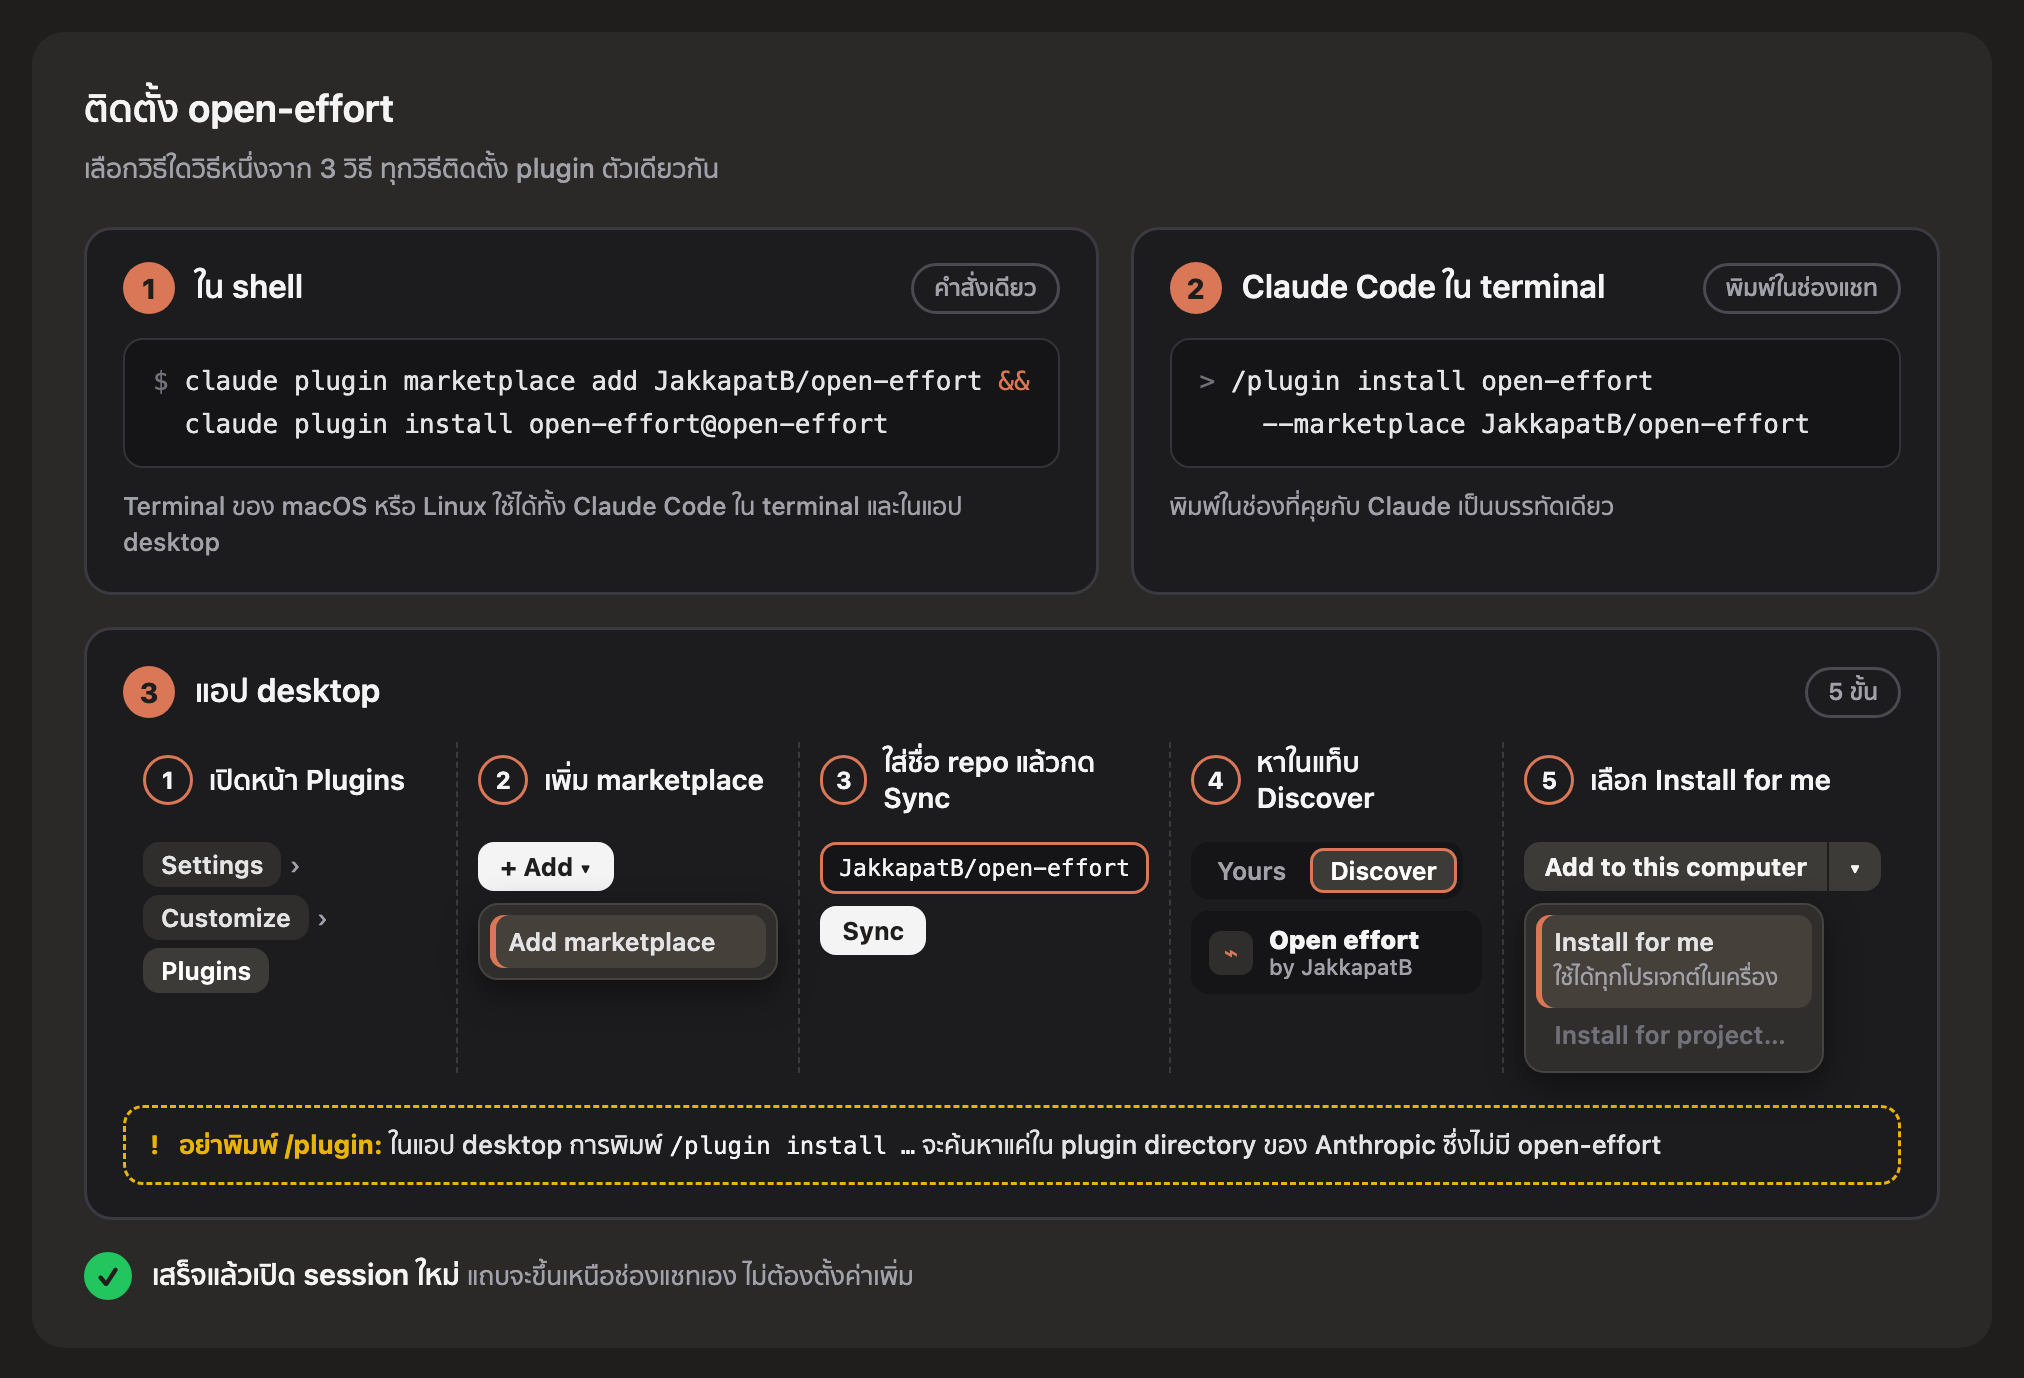
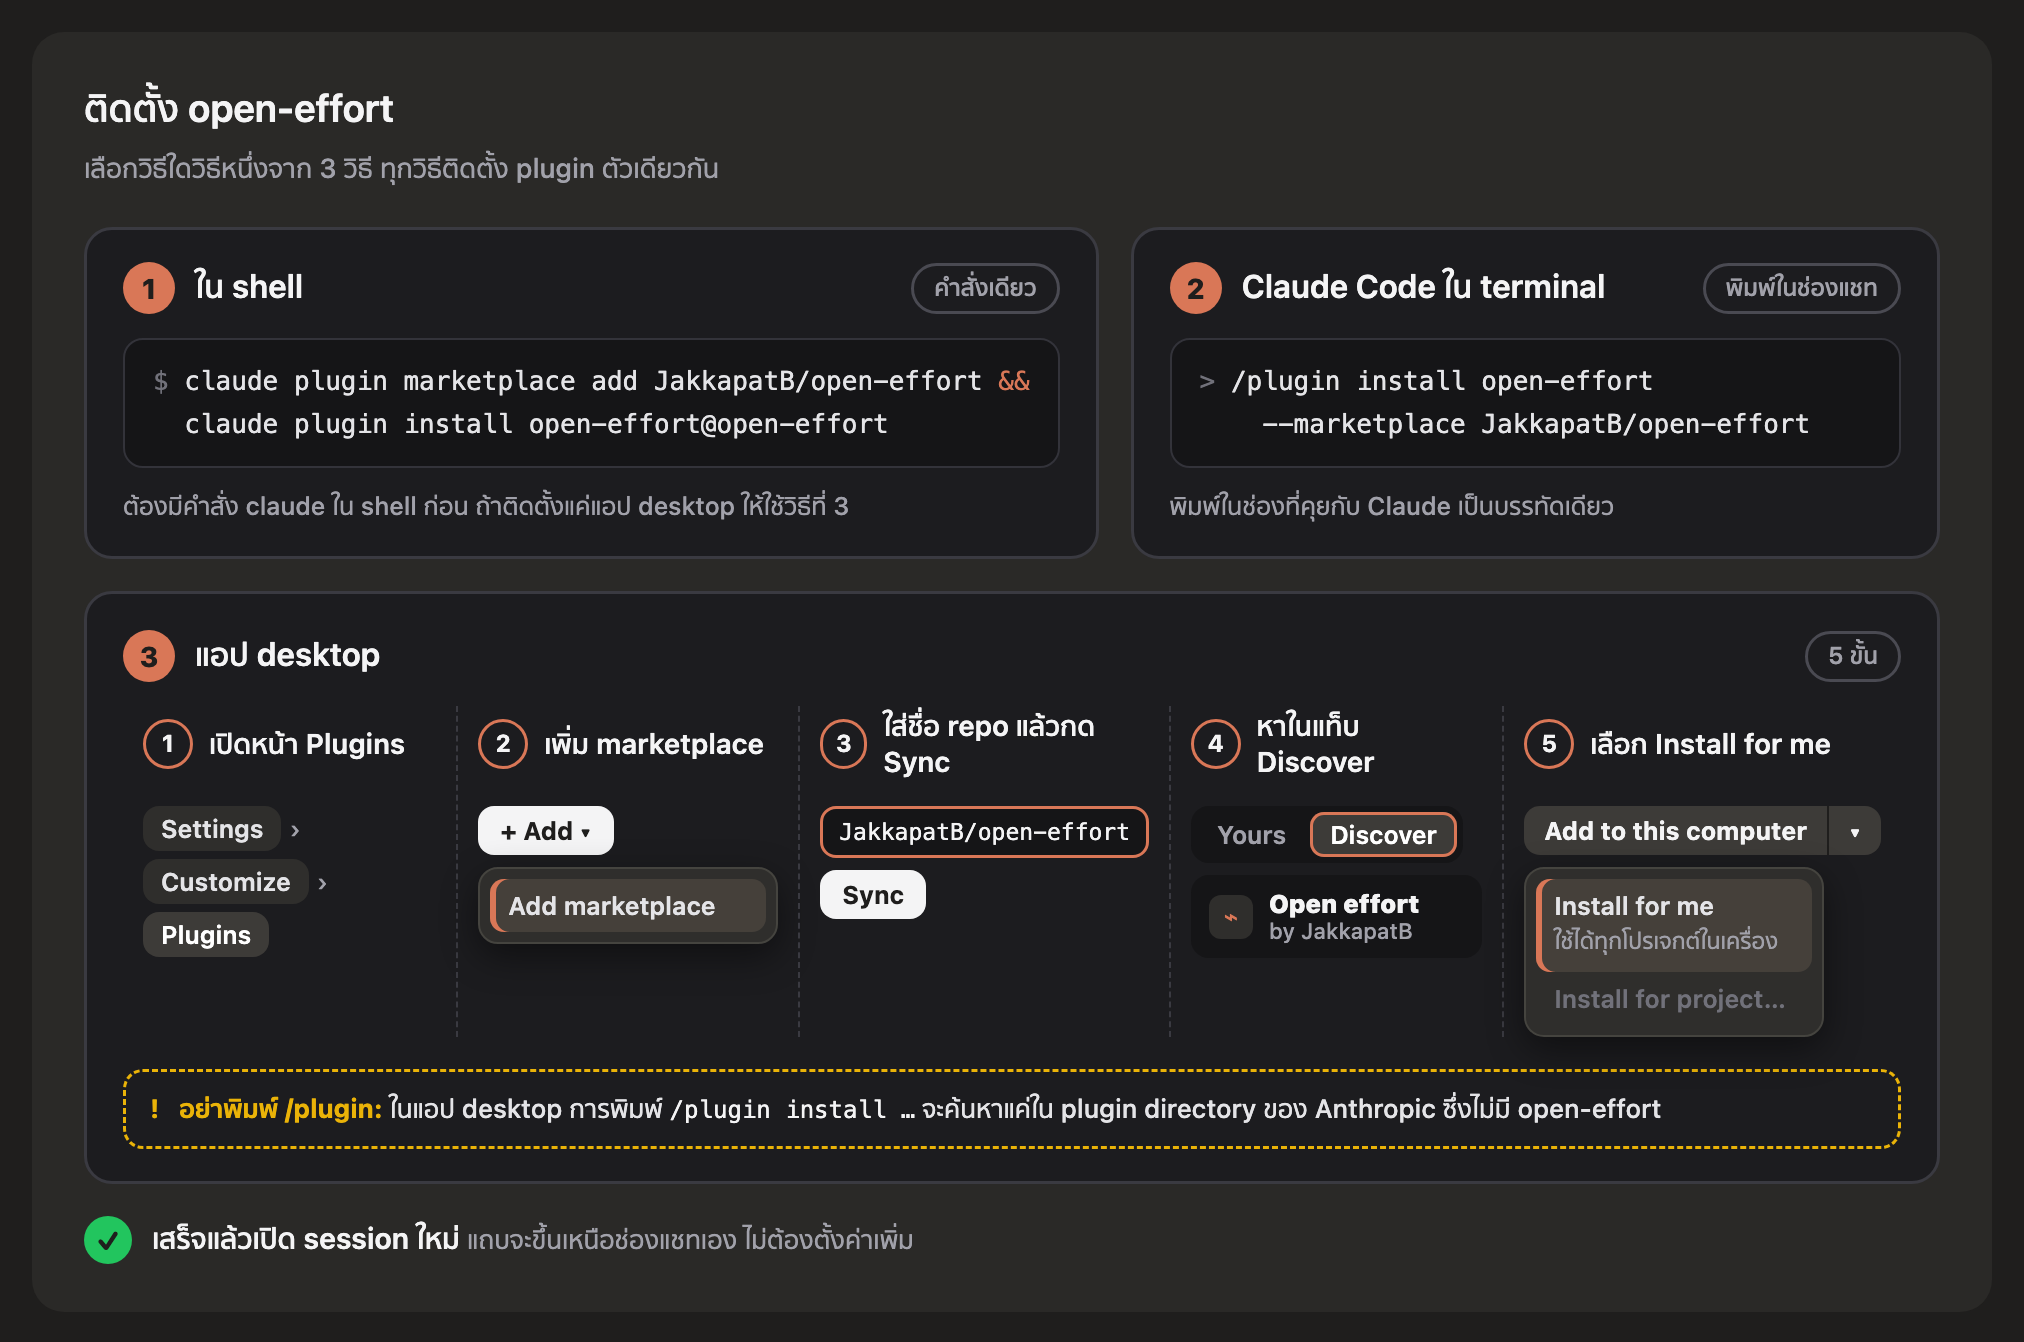
chore: release with changesets, require a changeset for plugin changes, and document updating (#18)
## What
- **Release automation (changesets):** a pull request that changes the
plugin adds a changeset (`npx changeset`). On main, the Release workflow
opens a **chore: release** pull request that raises the version in
`package.json` and `.claude-plugin/plugin.json` and writes
`CHANGELOG.md`. Merging it tags `vX.Y.Z` and publishes the GitHub
release.
- **CI:** fails a pull request that changes `hooks/`, `types/` or
`plugin.json` without a changeset, and checks that `package.json` and
`plugin.json` name the same version.
- **README (EN/TH):** a "Keep it up to date" section, covering
auto-update through `/plugin` → Marketplaces or `extraKnownMarketplaces`
in settings, updating now in the app or the shell, and watching
releases. Way 1 now says it needs the `claude` command; the install
picture says so too.
- **CONTRIBUTING:** changesets and how releases happen.
- `package-lock.json` is not committed, so Claude Code installs no
packages into the plugin for its users.

## Checked
- In a scratch clone: `npm run version` raised 0.2.0 → 0.3.0 in both
files and wrote `## 0.3.0`; `npx changeset tag` made `v0.3.0`; `plugin
validate` passed.
- The changeset check, simulated: a docs-only change passes, a hooks
change without a changeset fails, and one with a changeset passes.
- `claude plugin validate .` (plain and `--profile directory --strict`)
and `claude plugin test .` (255) pass. Both workflow files parse.

## Needs before the first release
[…]

diff --git a/README.th.md b/README.th.md
@@ -50,7 +50,7 @@
 
 ### 1. ใน shell
 
-คำสั่งเดียว ใช้ได้ทั้ง Claude Code ใน terminal และในแอป desktop:
+คำสั่งเดียว ต้องมีคำสั่ง `claude` (Claude Code แบบ command line) ใน shell ก่อน ถ้าติดตั้งแค่แอป desktop จะไม่มีคำสั่งนี้ ให้ใช้วิธีที่ 3 แทน
 
 ```bash
 claude plugin marketplace add JakkapatB/open-effort && claude plugin install open-effort@open-effort
@@ -73,6 +73,34 @@ claude plugin marketplace add JakkapatB/open-effort && claude plugin install ope
 ในแอป desktop การพิมพ์ `/plugin install …` จะค้นหาแค่ใน plugin directory ของ Anthropic ซึ่งไม่มี open-effort
 
 ไม่ต้องตั้งค่าเพิ่ม เปิด session ใหม่แล้วแถบจะขึ้นเหนือช่องแชทเอง
+
+### อัปเดตให้เป็นรุ่นล่าสุด
+
+Claude Code อัปเดต plugin ให้เองเฉพาะที่มาจาก marketplace ของ Anthropic เท่านั้น open-effort จึงอยู่ที่เวอร์ชันที่ติดตั้งไว้ จนกว่าคุณจะอัปเดตเอง หรือเปิดอัปเดตอัตโนมัติ
+
+**เปิดอัปเดตอัตโนมัติ (ทำครั้งเดียว):** ใน Claude Code ใน terminal พิมพ์ `/plugin` เปิดแท็บ **Marketplaces** เลือก **open-effort** แล้วเลือก **Enable auto-update** หรือเพิ่มส่วนนี้ลงใน `~/.claude/settings.json` (ถ้ามี `extraKnownMarketplaces` อยู่แล้ว ให้ใส่ไว้ข้างในนั้น)
+
+```json
+"extraKnownMarketplaces": {
+  "open-effort": {
+    "source": { "source": "github", "repo": "JakkapatB/open-effort" },
+    "autoUpdate": true
+  }
+}
+```
+
+หลังจากนั้น พอเปิด session ไปได้สักครู่ Claude Code จะดึงเวอร์ชันใหม่มาให้ถ้ามี และ session ถัดไปจะใช้เวอร์ชันนั้น
+
+**อัปเดตตอนนี้เลย:**
+
+- **แอป desktop:** **Settings** → **Customize** → **Plugins** → **Open effort** → **Update** ถ้าปุ่มเป็นสีเทากดไม่ได้ ให้ใช้คำสั่งใน shell ด้านล่าง
+- **shell:**
+
+  ```bash
+  claude plugin marketplace update open-effort && claude plugin update open-effort@open-effort
+  ```
+
+จากนั้นเปิด session ใหม่ ดูว่าแต่ละเวอร์ชันเปลี่ยนอะไรได้ที่ [CHANGELOG](CHANGELOG.md) และหน้า [Releases](https://github.com/JakkapatB/open-effort/releases) ถ้าอยากรู้ทันทีที่มีเวอร์ชันใหม่ ให้กด **Watch** → **Custom** → **Releases** บน GitHub
 
 ## ลองใช้
 

diff --git a/CONTRIBUTING.md b/CONTRIBUTING.md
@@ -10,7 +10,8 @@ Thanks for helping. Bug reports, ideas and pull requests are all welcome.
 
 ## Set up
 
-You need [Claude Code](https://claude.com/claude-code) 2.1.308 or later. No other dependencies.
+You need [Claude Code](https://claude.com/claude-code) 2.1.308 or later. The plugin has no dependencies; the release
+tooling (`package.json`, changesets) needs Node.js 22 and `npm install`, and only to add a changeset.
 
 ```bash
 git clone https://github.com/JakkapatB/open-effort.git
@@ -29,6 +30,16 @@ To try your copy in a real session, load it as a dev mod from Claude Code, or in
 - **Both READMEs.** If the change is visible to users, update `README.md` and `README.th.md` together, in plain words.
 - **Keep it small.** One change per pull request.
 - **Checks pass.** `claude plugin test .` and `claude plugin validate .` both pass before you open the pull request.
+- **A changeset for users.** A change to `hooks/`, `types/` or `.claude-plugin/plugin.json` comes with a changeset: run
+  `npx changeset`, pick patch (a fix), minor (a feature) or major (a breaking change), and write one line for users.
+  CI fails without one, because without a new version installed copies never get the change. Docs need none.
+
+## Releases
+
+Nobody edits version numbers by hand. When changesets reach `main`, the Release workflow opens a pull request titled
+**chore: release** that raises the version in `package.json` and `.claude-plugin/plugin.json` (Claude Code reads the
+second to tell an update) and writes the notes into `CHANGELOG.md`. Merging it tags `vX.Y.Z` and publishes the GitHub
+release.
 
 ## Commit messages
 
@@ -50,11 +61,13 @@ Kinds: `feat`, `fix`, `perf`, `refactor`, `test`, `docs`, `chore`. Add detail in
 | `hooks/policy.ts` | effort, the ladder, models, sub-agents, tickets |
 | `hooks/score.ts` | the Haiku reading |
 | `hooks/checks.ts` | which commands count as checks |
-| `hooks/main-flow.ts` | Main Flow stages and the notes sent to Claude |
+| `hooks/flow.ts` | the flow: Matt's Main Flow, a project's own file, its skills and tickets |
+| `hooks/main-flow.ts` | the notes and tools sent to Claude for the flow |
 | `hooks/diagrams.ts` | the band, chart and themes as SVG |
 | `hooks/words.ts` | English and Thai text |
 | `types/index.d.ts` | the mod's state contract |
 | `tests/` | tests that drive the mod at its hooks |
+| `.changeset/`, `package.json`, `scripts/` | release tooling: changesets and the version sync |
 
 ## Licence
 

diff --git a/README.md b/README.md
@@ -51,7 +51,7 @@ Pick one of the three ways:
 
 ### 1. In a shell
 
-One line, for Claude Code in the terminal and the desktop app alike:
+One line. It needs Claude Code's command-line tool, `claude`, in your shell. With only the desktop app installed, your shell has no `claude`: use way 3.
 
 ```bash
 claude plugin marketplace add JakkapatB/open-effort && claude plugin install open-effort@open-effort
@@ -74,6 +74,34 @@ claude plugin marketplace add JakkapatB/open-effort && claude plugin install ope
 In the desktop app, typing `/plugin install …` only searches Anthropic's plugin directory, where open-effort is not listed.
 
 Nothing to set up: start a new session and the band appears above the prompt.
+
+### Keep it up to date
+
+Claude Code updates plugins by itself only from Anthropic's own marketplaces, so open-effort stays at the version you installed until you update it or turn on auto-update.
+
+**Turn on auto-update, once.** In Claude Code in the terminal, run `/plugin`, open **Marketplaces**, pick **open-effort** and choose **Enable auto-update**. Or add this entry inside `~/.claude/settings.json` (next to any `extraKnownMarketplaces` entries already there):
+
+```json
+"extraKnownMarketplaces": {
+  "open-effort": {
+    "source": { "source": "github", "repo": "JakkapatB/open-effort" },
+    "autoUpdate": true
+  }
+}
+```
+
+From then on, a few minutes into a session Claude Code fetches a new version if there is one, and the next session runs it.
+
+**Update now.**
+
+- **Desktop app:** **Settings** → **Customize** → **Plugins** → **Open effort** → **Update**. If the button stays grey, use the shell line below.
+- **Shell:**
+
+  ```bash
+  claude plugin marketplace update open-effort && claude plugin update open-effort@open-effort
+  ```
+
+Then start a new session. What each version changes is in the [CHANGELOG](CHANGELOG.md) and on the [Releases](https://github.com/JakkapatB/open-effort/releases) page; on GitHub, **Watch** → **Custom** → **Releases** tells you when a new one comes out.
 
 ## Try it
 

diff --git a/CHANGELOG.md b/CHANGELOG.md
@@ -1,10 +1,6 @@
 # Changelog
 
-All notable changes to this project. Dates are in UTC.
-
-## [Unreleased]
-
-## [0.2.0] - 2026-11-01
+## 0.2.0
 
 - A project can use its own flow instead of Matt Pocock's Main Flow: `.claude/open-effort.json` names its stages, the
   skills that run each, the effort each starts at, and where its tickets are written, worked and kept. `/open-effort
@@ -19,7 +15,7 @@ All notable changes to this project. Dates are in UTC.
 - plugin.json links to the documentation, support and privacy sections.
 - A code of conduct.
 
-## [0.1.0] - 2026-11-01
+## 0.1.0
 
 The first release.
 

diff --git a/.changeset/README.md b/.changeset/README.md
@@ -1,0 +1,9 @@
+# Changesets
+
+A changeset is a short note that says what a pull request changes for people who use open-effort, and whether that is a patch, minor or major change. Add one to any pull request that changes `hooks/`, `types/` or `.claude-plugin/plugin.json`:
+
+```bash
+npx changeset
+```
+
+When changesets reach `main`, a pull request titled **chore: release** opens. It raises the version in `package.json` and `.claude-plugin/plugin.json` and writes the notes into `CHANGELOG.md`. Merging it tags the release and publishes it on GitHub, and installed copies can then update.
